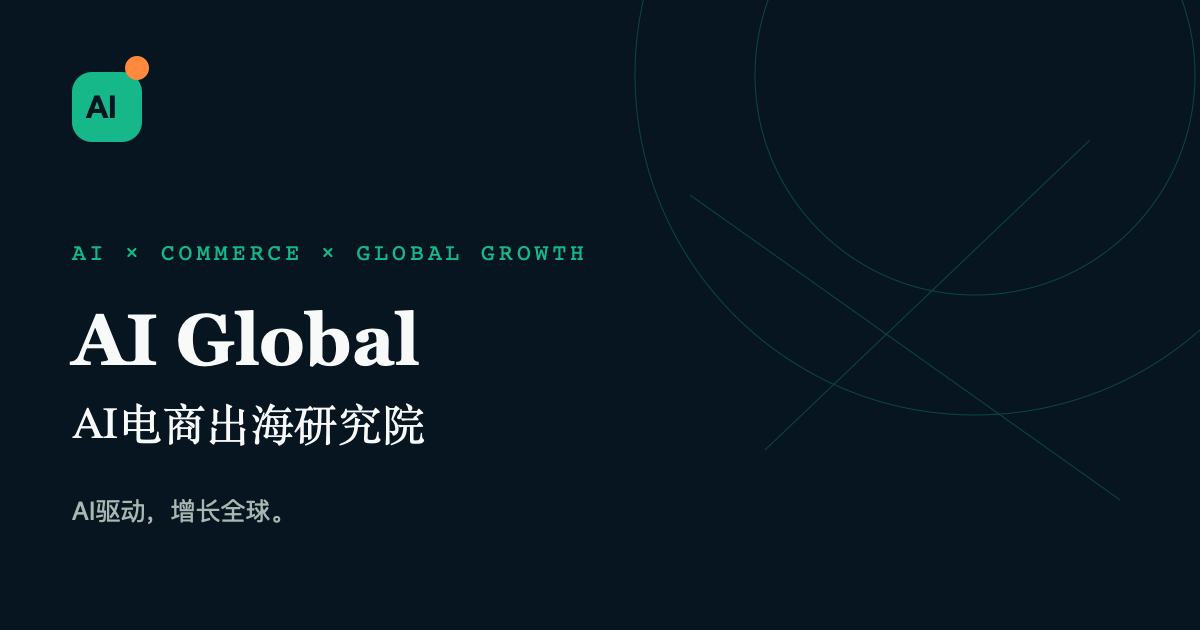
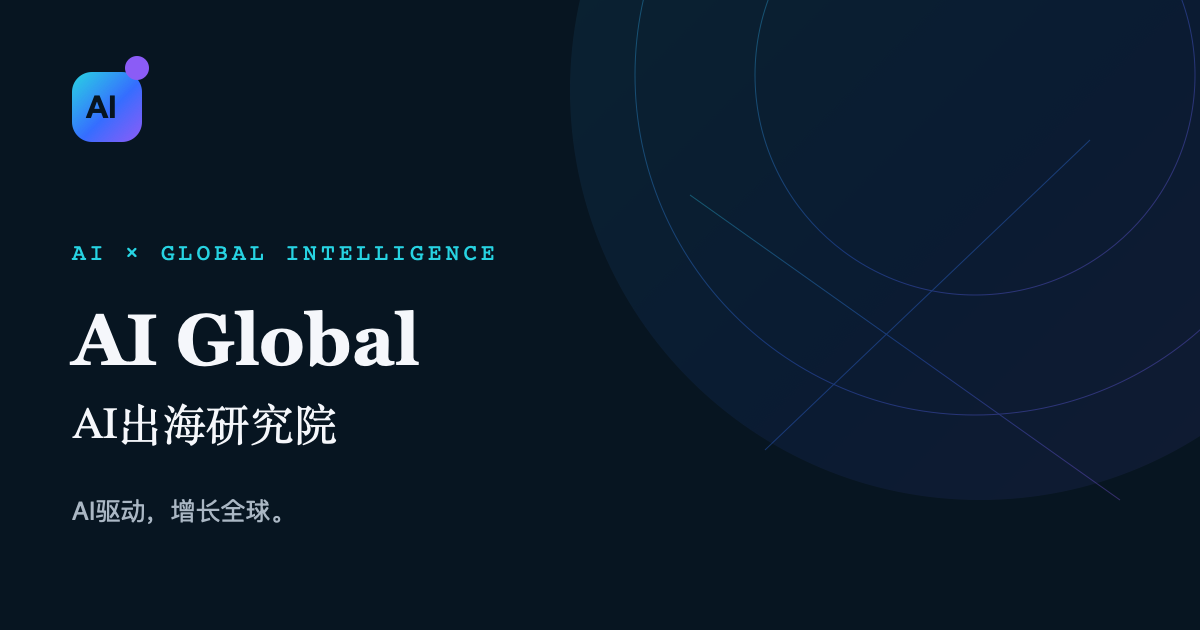
feat: refresh AI Global brand palette

diff --git a/app/page.tsx b/app/page.tsx
@@ -19,8 +19,8 @@ export default function HomePage() {
       <div className="absolute left-[-10%] top-[-30%] h-[650px] w-[650px] rounded-full bg-[var(--brand)]/[.07] blur-[100px]" />
       <div className="container-main grid min-h-[calc(100vh-104px)] items-center gap-10 py-16 lg:grid-cols-[1.05fr_.95fr] lg:py-20">
         <div className="relative z-10 min-w-0">
-          <div className="reveal inline-flex items-center gap-3 rounded-full border border-white/12 bg-white/[.04] px-4 py-2 font-mono text-[10px] font-bold uppercase tracking-[.2em] text-[var(--brand)]"><span className="size-1.5 rounded-full bg-[var(--orange)]" />AI × Commerce × Global Growth</div>
-          <h1 className="mt-8 max-w-3xl break-words font-display text-[clamp(2.75rem,11vw,6.9rem)] font-semibold leading-[.95] tracking-[-.065em]">用AI重构<br/><span className="text-[var(--brand)]">电商与全球化</span><br className="sm:hidden"/>增长</h1>
+          <div className="reveal inline-flex items-center gap-3 rounded-full border border-white/12 bg-white/[.04] px-4 py-2 font-mono text-[10px] font-bold uppercase tracking-[.2em] text-[var(--brand)]"><span className="size-1.5 rounded-full bg-[var(--violet)]" />AI × Commerce × Global Growth</div>
+          <h1 className="mt-8 max-w-3xl break-words font-display text-[clamp(2.75rem,11vw,6.9rem)] font-semibold leading-[.95] tracking-[-.065em]">用AI重构<br/><span className="text-brand-gradient">电商与全球化</span><br className="sm:hidden"/>增长</h1>
           <p className="mt-7 max-w-2xl text-base leading-8 text-white/62 md:text-lg">从行业资讯、工具和知识，到AI建站、广告投放、SEO与出海营销，为中国企业提供面向全球市场的一站式AI增长支持。</p>
           <div className="mt-9 flex flex-wrap gap-3"><ButtonLink href="/contact" size="lg">获取AI出海方案<ArrowRight className="size-4" /></ButtonLink><ButtonLink href="/knowledge" size="lg" variant="outline" className="border-white/18 text-white hover:bg-white/8">探索知识库</ButtonLink><ButtonLink href="/community" size="lg" variant="ghost" className="text-white/70 hover:bg-white/8">加入AI出海社群</ButtonLink></div>
           <div className="mt-12 flex flex-wrap gap-x-5 gap-y-3 border-t border-white/10 pt-5">{["AI智能建站","AI广告投放","SEO与GEO","海外社媒","AI产品出海","企业AI服务"].map((tag) => <span key={tag} className="flex items-center gap-2 text-xs text-white/44"><CircleDot className="size-3 text-[var(--brand)]" />{tag}</span>)}</div>
@@ -46,9 +46,9 @@ export default function HomePage() {
 
     <section className="section-pad soft-grid bg-[var(--paper)]"><div className="container-main"><SectionHeading eyebrow="Editors’ Choice / 03" title="本周最值得关注" description="深度指南、实战方法、平台变化与商业机会，由编辑团队建立内容之间的联系。" />
       <div className="grid auto-rows-[minmax(190px,auto)] gap-4 lg:grid-cols-12">
-        <Link href="/knowledge/geo-foundations" className="group relative overflow-hidden rounded-[28px] bg-[#11392d] p-7 text-white lg:col-span-7 lg:row-span-2 md:p-9"><span className="font-mono text-[10px] uppercase tracking-[.18em] text-[var(--brand)]">Deep Guide</span><h3 className="mt-8 max-w-xl font-display text-3xl font-semibold leading-tight md:text-5xl">AI搜索时代，品牌如何成为“可引用的答案”</h3><p className="mt-5 max-w-lg text-sm leading-7 text-white/56">从实体信息、专业作者、内容结构到第三方信号，建立GEO的长期基础。</p><ArrowUpRight className="absolute bottom-8 right-8 size-8 text-[var(--brand)] transition group-hover:rotate-45" /></Link>
+        <Link href="/knowledge/geo-foundations" className="group relative overflow-hidden rounded-[28px] bg-[#0b2547] p-7 text-white lg:col-span-7 lg:row-span-2 md:p-9"><span className="font-mono text-[10px] uppercase tracking-[.18em] text-[var(--brand)]">Deep Guide</span><h3 className="mt-8 max-w-xl font-display text-3xl font-semibold leading-tight md:text-5xl">AI搜索时代，品牌如何成为“可引用的答案”</h3><p className="mt-5 max-w-lg text-sm leading-7 text-white/56">从实体信息、专业作者、内容结构到第三方信号，建立GEO的长期基础。</p><ArrowUpRight className="absolute bottom-8 right-8 size-8 text-[var(--brand)] transition group-hover:rotate-45" /></Link>
         {news.slice(4,8).map((item) => <Link key={item.slug} href={`/news/${item.slug}`} className="group rounded-[24px] border border-[var(--line)] bg-white p-6 lg:col-span-5"><span className="text-[10px] font-bold text-[var(--brand-dark)]">{item.category}</span><h3 className="mt-3 text-xl font-semibold leading-7 tracking-[-.02em] group-hover:text-[var(--brand-dark)]">{item.title}</h3><p className="mt-4 text-xs text-[var(--muted)]">{formatDate(item.publishedAt)}</p></Link>)}
-        <Link href="/reports/geo-ai-search-guide" className="relative overflow-hidden rounded-[24px] bg-[var(--orange)] p-7 lg:col-span-12"><span className="font-mono text-[10px] uppercase tracking-[.16em]">Research / R04</span><div className="mt-5 flex flex-col justify-between gap-4 md:flex-row md:items-end"><div><h3 className="font-display text-3xl font-semibold tracking-[-.03em]">GEO与AI搜索增长实践指南</h3><p className="mt-2 text-sm text-[#4b260e]">42页 · 品牌实体、可引用内容与监测方法</p></div><span className="flex items-center gap-2 text-sm font-bold">获取完整报告<Download className="size-4" /></span></div></Link>
+        <Link href="/reports/geo-ai-search-guide" className="bg-brand-gradient relative overflow-hidden rounded-[24px] p-7 text-white lg:col-span-12"><div className="absolute -right-10 -top-20 size-56 rounded-full border border-white/15"/><span className="relative font-mono text-[10px] uppercase tracking-[.16em] text-white/75">Research / R04</span><div className="relative mt-5 flex flex-col justify-between gap-4 md:flex-row md:items-end"><div><h3 className="font-display text-3xl font-semibold tracking-[-.03em]">GEO与AI搜索增长实践指南</h3><p className="mt-2 text-sm text-white/72">42页 · 品牌实体、可引用内容与监测方法</p></div><span className="flex items-center gap-2 text-sm font-bold">获取完整报告<Download className="size-4" /></span></div></Link>
       </div>
     </div></section>
 
@@ -62,16 +62,16 @@ export default function HomePage() {
     </div></section>
 
     <section className="section-pad bg-[var(--paper)]"><div className="container-main"><SectionHeading eyebrow="Practice / 06" title="AI驱动全球增长的真实实践" description="明确区分匿名案例、示范方案与自有案例。没有公开授权，就不展示客户Logo；没有可靠数据，就不编造增长数字。" link="/cases" />
-      <div className="grid gap-4 lg:grid-cols-3">{cases.slice(0, 6).map((item, index) => <Link key={item.slug} href={`/cases/${item.slug}`} className={`group flex min-h-[330px] flex-col rounded-[26px] border p-6 ${index === 0 ? "border-transparent bg-[var(--orange)] text-[#32170a] lg:col-span-2" : "border-[var(--line)] bg-white"}`}><div className="flex items-center justify-between"><span className={`rounded-full px-3 py-1 text-[10px] font-bold ${index === 0 ? "bg-[#32170a] text-white" : "bg-[var(--brand-wash)] text-[var(--brand-dark)]"}`}>{item.kind === "示范方案" ? "Sample Playbook / 示范方案" : item.kind}</span><span className="font-mono text-[10px] opacity-45">C0{index+1}</span></div><h3 className={`mt-7 font-display font-semibold leading-tight tracking-[-.03em] ${index === 0 ? "max-w-2xl text-4xl md:text-5xl" : "text-2xl"}`}>{item.title}</h3><p className="mt-4 text-sm leading-6 opacity-65">{item.challenge}</p><div className="mt-auto flex items-end justify-between pt-6"><span className="text-xs font-semibold">{item.industry} · {item.service}</span><ArrowUpRight className="size-5 transition group-hover:rotate-45" /></div></Link>)}</div>
+      <div className="grid gap-4 lg:grid-cols-3">{cases.slice(0, 6).map((item, index) => <Link key={item.slug} href={`/cases/${item.slug}`} className={`group flex min-h-[330px] flex-col rounded-[26px] border p-6 ${index === 0 ? "border-transparent bg-[var(--global-blue)] text-white lg:col-span-2" : "border-[var(--line)] bg-white"}`}><div className="flex items-center justify-between"><span className={`rounded-full px-3 py-1 text-[10px] font-bold ${index === 0 ? "bg-white/15 text-white" : "bg-[var(--brand-wash)] text-[var(--brand-dark)]"}`}>{item.kind === "示范方案" ? "Sample Playbook / 示范方案" : item.kind}</span><span className="font-mono text-[10px] opacity-45">C0{index+1}</span></div><h3 className={`mt-7 font-display font-semibold leading-tight tracking-[-.03em] ${index === 0 ? "max-w-2xl text-4xl md:text-5xl" : "text-2xl"}`}>{item.title}</h3><p className="mt-4 text-sm leading-6 opacity-65">{item.challenge}</p><div className="mt-auto flex items-end justify-between pt-6"><span className="text-xs font-semibold">{item.industry} · {item.service}</span><ArrowUpRight className="size-5 transition group-hover:rotate-45" /></div></Link>)}</div>
     </div></section>
 
     <section className="section-pad bg-white"><div className="container-main"><SectionHeading eyebrow="Research / 07" title="AI电商与全球增长研究" description="以结构化方法、透明来源和可执行结论，沉淀行业变化与实践框架。" link="/reports" />
-      <div className="grid gap-5 md:grid-cols-2 lg:grid-cols-4">{reports.map((report, index) => <Link key={report.slug} href={`/reports/${report.slug}`} className="group"><div className={`relative aspect-[3/4] overflow-hidden rounded-[20px] p-6 ${["bg-[#153d31] text-white","bg-[#f0dfc7] text-[#2f2418]","bg-[#193348] text-white","bg-[#ef6f38] text-[#241209]"][index]}`}><div className="soft-grid absolute inset-0 opacity-25"/><span className="relative font-mono text-[9px] tracking-[.18em]">AI GLOBAL RESEARCH / {report.number}</span><h3 className="relative mt-16 font-display text-2xl font-semibold leading-tight tracking-[-.025em]">{report.title}</h3><div className="absolute bottom-6 left-6 right-6 flex items-end justify-between border-t border-current/20 pt-4"><span className="text-[10px]">{report.pages ? `${report.pages} PAGES` : "COMING SOON"}</span><span className="font-display text-2xl">AG.</span></div></div><div className="mt-4 flex items-center justify-between"><span className="text-sm font-semibold">{report.status}</span><Download className="size-4 text-[var(--muted)] transition group-hover:text-[var(--brand-dark)]" /></div></Link>)}</div>
+      <div className="grid gap-5 md:grid-cols-2 lg:grid-cols-4">{reports.map((report, index) => <Link key={report.slug} href={`/reports/${report.slug}`} className="group"><div className={`relative aspect-[3/4] overflow-hidden rounded-[20px] p-6 ${["bg-[#0b2547] text-white","bg-[#dfeaff] text-[#172b57]","bg-[#254edb] text-white","bg-[#7146c7] text-white"][index]}`}><div className="soft-grid absolute inset-0 opacity-25"/><span className="relative font-mono text-[9px] tracking-[.18em]">AI GLOBAL RESEARCH / {report.number}</span><h3 className="relative mt-16 font-display text-2xl font-semibold leading-tight tracking-[-.025em]">{report.title}</h3><div className="absolute bottom-6 left-6 right-6 flex items-end justify-between border-t border-current/20 pt-4"><span className="text-[10px]">{report.pages ? `${report.pages} PAGES` : "COMING SOON"}</span><span className="font-display text-2xl">AG.</span></div></div><div className="mt-4 flex items-center justify-between"><span className="text-sm font-semibold">{report.status}</span><Download className="size-4 text-[var(--muted)] transition group-hover:text-[var(--brand-dark)]" /></div></Link>)}</div>
     </div></section>
 
-    <section className="section-pad soft-grid bg-[#eaf0ec]"><div className="container-main grid gap-12 lg:grid-cols-[.9fr_1.1fr] lg:items-center">
+    <section className="section-pad soft-grid bg-[var(--paper-2)]"><div className="container-main grid gap-12 lg:grid-cols-[.9fr_1.1fr] lg:items-center">
       <div><p className="font-mono text-[11px] font-bold uppercase tracking-[.2em] text-[var(--brand-dark)]">Community / 08</p><h2 className="mt-5 text-balance font-display text-4xl font-semibold leading-[1.08] tracking-[-.04em] md:text-6xl">加入AI出海<br/>实践者社区</h2><p className="mt-6 max-w-lg text-base leading-8 text-[var(--muted)]">AI Global Club连接跨境卖家、出海品牌、AI创业者、独立开发者和企业管理者，围绕真实问题交流与合作。</p><div className="mt-8 grid grid-cols-2 gap-3 text-sm">{["每周行业精选","AI工具与教程","会员知识库","行业分享","线下活动","案例交流","企业需求","合作机会"].map((item)=><span key={item} className="flex items-center gap-2"><Check className="size-4 text-[var(--brand-dark)]"/>{item}</span>)}</div><div className="mt-9 flex flex-wrap gap-3"><ButtonLink href="/community/apply">申请加入<Users className="size-4"/></ButtonLink><ButtonLink href="/community/membership" variant="outline">查看会员权益</ButtonLink></div></div>
-      <div className="rounded-[30px] border border-[var(--line)] bg-white p-4 shadow-[0_30px_70px_rgba(16,32,27,.08)] md:p-7"><div className="flex items-center justify-between border-b border-[var(--line)] pb-5"><div><p className="text-sm font-bold">社区正在讨论</p><p className="mt-1 text-xs text-[var(--muted)]">真实问题 · 专业交流 · 基础审核</p></div><MessageCircle className="size-5 text-[var(--brand-dark)]"/></div><div className="divide-y divide-[var(--line)]">{communityTopics.slice(0,5).map((topic)=><Link href={`/community/topics#${topic.slug}`} key={topic.slug} className="group block py-5"><div className="flex items-start justify-between gap-3"><div><span className="text-[10px] font-bold text-[var(--brand-dark)]">{topic.category}</span><h3 className="mt-1.5 font-semibold leading-6 group-hover:text-[var(--brand-dark)]">{topic.title}</h3></div><span className="shrink-0 text-[10px] text-[var(--muted)]">{topic.replies}回复</span></div><p className="mt-2 text-xs text-[var(--muted)]">{topic.author} · {formatDate(topic.publishedAt)}</p></Link>)}</div></div>
+      <div className="rounded-[30px] border border-[var(--line)] bg-white p-4 shadow-[0_30px_70px_rgba(18,33,43,.08)] md:p-7"><div className="flex items-center justify-between border-b border-[var(--line)] pb-5"><div><p className="text-sm font-bold">社区正在讨论</p><p className="mt-1 text-xs text-[var(--muted)]">真实问题 · 专业交流 · 基础审核</p></div><MessageCircle className="size-5 text-[var(--brand-dark)]"/></div><div className="divide-y divide-[var(--line)]">{communityTopics.slice(0,5).map((topic)=><Link href={`/community/topics#${topic.slug}`} key={topic.slug} className="group block py-5"><div className="flex items-start justify-between gap-3"><div><span className="text-[10px] font-bold text-[var(--brand-dark)]">{topic.category}</span><h3 className="mt-1.5 font-semibold leading-6 group-hover:text-[var(--brand-dark)]">{topic.title}</h3></div><span className="shrink-0 text-[10px] text-[var(--muted)]">{topic.replies}回复</span></div><p className="mt-2 text-xs text-[var(--muted)]">{topic.author} · {formatDate(topic.publishedAt)}</p></Link>)}</div></div>
     </div></section>
 
     <section className="section-pad bg-[var(--paper)]"><div className="container-main"><SectionHeading eyebrow="Events & Learning / 09" title="活动、课程与行业连接" description="线上直播、城市Meetup、训练营与企业交流，让知识进入真实的业务现场。" link="/events" />
@@ -80,6 +80,6 @@ export default function HomePage() {
 
     <section className="bg-white py-20"><div className="container-main"><div className="rounded-[32px] border border-[var(--line)] bg-[var(--paper)] p-7 md:p-12"><div className="grid gap-8 lg:grid-cols-[.7fr_1.3fr] lg:items-end"><div><Lightbulb className="size-6 text-[var(--orange)]"/><h2 className="mt-5 font-display text-3xl font-semibold tracking-[-.035em] md:text-5xl">每周获取一份<br/>AI出海精选</h2><p className="mt-4 text-sm leading-7 text-[var(--muted)]">行业动态、新工具、案例、增长方法、活动与商业机会。无噪音，可随时退订。</p></div><NewsletterForm /></div></div></div></section>
 
-    <section className="relative overflow-hidden bg-[var(--orange)] py-20 text-[#271207] md:py-28"><div className="absolute -right-32 -top-40 size-[500px] rounded-full border border-[#271207]/10"/><div className="container-main relative"><p className="font-mono text-[10px] font-bold uppercase tracking-[.2em]">Your next move</p><div className="mt-6 flex flex-col justify-between gap-9 lg:flex-row lg:items-end"><h2 className="max-w-4xl text-balance font-display text-4xl font-semibold leading-[1.05] tracking-[-.045em] md:text-7xl">用AI开启你的全球增长下一步</h2><div className="flex shrink-0 flex-wrap gap-3"><ButtonLink href="/contact" variant="dark" size="lg">获取AI出海方案<ArrowRight className="size-4"/></ButtonLink><ButtonLink href="/community" variant="outline" size="lg" className="border-[#271207]/20 hover:bg-black/5">加入社群</ButtonLink></div></div></div></section>
+    <section className="bg-brand-gradient relative overflow-hidden py-20 text-white md:py-28"><div className="absolute -right-32 -top-40 size-[500px] rounded-full border border-white/15"/><div className="container-main relative"><p className="font-mono text-[10px] font-bold uppercase tracking-[.2em] text-white/75">Your next move</p><div className="mt-6 flex flex-col justify-between gap-9 lg:flex-row lg:items-end"><h2 className="max-w-4xl text-balance font-display text-4xl font-semibold leading-[1.05] tracking-[-.045em] md:text-7xl">用AI开启你的全球增长下一步</h2><div className="flex shrink-0 flex-wrap gap-3"><ButtonLink href="/contact" variant="dark" size="lg">获取AI出海方案<ArrowRight className="size-4"/></ButtonLink><ButtonLink href="/community" variant="outline" size="lg" className="border-white/25 text-white hover:bg-white/10">加入社群</ButtonLink></div></div></div></section>
   </>;
 }

diff --git a/app/about/page.tsx b/app/about/page.tsx
@@ -15,8 +15,8 @@ const pillars = [
 
 export default function AboutPage() {
   return <>
-    <ListingHero eyebrow="About AI Global" title="连接AI能力与全球商业机会" description="AI Global｜AI电商出海研究院，是面向中国企业、品牌、跨境商家、AI创业者和出海从业者的垂直行业平台。" />
+    <ListingHero eyebrow="About AI Global" title="连接AI能力与全球商业机会" description="AI Global｜AI出海研究院，是面向中国企业、品牌、跨境商家、AI创业者和出海从业者的垂直行业平台。" />
     <section className="section-pad bg-white"><div className="container-main grid gap-10 lg:grid-cols-[.8fr_1.2fr]"><div><p className="font-mono text-[10px] font-bold text-[var(--brand-dark)]">OUR MISSION</p><h2 className="mt-5 font-display text-4xl font-semibold leading-tight tracking-[-.04em]">{siteConfig.mission}</h2></div><div className="grid gap-4 md:grid-cols-3">{pillars.map((item) => { const Icon = item.icon; return <div key={item.title} className="rounded-[22px] border border-[var(--line)] bg-[var(--paper)] p-6"><Icon className="size-5 text-[var(--brand-dark)]" /><h3 className="mt-7 font-bold">{item.title}</h3><p className="mt-3 text-sm leading-6 text-[var(--muted)]">{item.text}</p></div>; })}</div></div></section>
-    <section className="section-pad bg-[var(--paper)]"><div className="container-reading prose-global"><h2>我们做什么</h2><p>AI Global同时建设资讯门户、知识库、工具导航、案例与报告、行业社区、活动课程和企业服务。内容帮助行业建立共同语言，社区连接真实实践者，企业服务把AI能力转化为可以运营的全球增长系统。</p><h2>独立品牌与交付原则</h2><p>AI Global是独立运营的品牌和业务入口。AI建站、广告投放、SEO/GEO、出海营销、企业培训和数字员工等业务均由AI Global对外统一提供、组织或交付。需要外部能力时，统一由AI Global专业交付团队与认证生态合作伙伴协同。</p><h2>编辑与研究原则</h2><ul><li>区分事实、观点、示范方案与商业合作。</li><li>保留信息来源、作者、更新时间和适用边界。</li><li>不全文搬运外部文章，不虚构评分、客户和业务数据。</li><li>对内容错误、版权与来源方诉求建立更正和删除渠道。</li></ul><h2>组织实体信息</h2><p>品牌：AI Global；中文定位：AI电商出海研究院；官方网站：{siteConfig.domain}；使命：{siteConfig.mission}</p><ButtonLink href="/contact">联系AI Global</ButtonLink></div></section>
+    <section className="section-pad bg-[var(--paper)]"><div className="container-reading prose-global"><h2>我们做什么</h2><p>AI Global同时建设资讯门户、知识库、工具导航、案例与报告、行业社区、活动课程和企业服务。内容帮助行业建立共同语言，社区连接真实实践者，企业服务把AI能力转化为可以运营的全球增长系统。</p><h2>独立品牌与交付原则</h2><p>AI Global是独立运营的品牌和业务入口。AI建站、广告投放、SEO/GEO、出海营销、企业培训和数字员工等业务均由AI Global对外统一提供、组织或交付。需要外部能力时，统一由AI Global专业交付团队与认证生态合作伙伴协同。</p><h2>编辑与研究原则</h2><ul><li>区分事实、观点、示范方案与商业合作。</li><li>保留信息来源、作者、更新时间和适用边界。</li><li>不全文搬运外部文章，不虚构评分、客户和业务数据。</li><li>对内容错误、版权与来源方诉求建立更正和删除渠道。</li></ul><h2>组织实体信息</h2><p>品牌：AI Global；中文定位：AI出海研究院；官方网站：{siteConfig.domain}；使命：{siteConfig.mission}</p><ButtonLink href="/contact">联系AI Global</ButtonLink></div></section>
   </>;
 }

diff --git a/components/home/network-visual.tsx b/components/home/network-visual.tsx
@@ -2,14 +2,14 @@ export function NetworkVisual() {
   return <div className="relative mx-auto aspect-square w-full max-w-[590px]" aria-label="AI全球商业网络抽象图">
     <div className="absolute inset-[7%] rounded-full border border-white/10" /><div className="absolute inset-[20%] rounded-full border border-dashed border-white/10" />
     <svg viewBox="0 0 600 600" className="absolute inset-0 h-full w-full" role="img" aria-hidden="true">
-      <defs><linearGradient id="line" x1="0" y1="0" x2="1" y2="1"><stop stopColor="#16b889" stopOpacity=".8"/><stop offset="1" stopColor="#3e8cff" stopOpacity=".12"/></linearGradient></defs>
+      <defs><linearGradient id="line" x1="0" y1="0" x2="1" y2="1"><stop stopColor="#27d3e2" stopOpacity=".9"/><stop offset=".55" stopColor="#356dff" stopOpacity=".55"/><stop offset="1" stopColor="#8b5cf6" stopOpacity=".18"/></linearGradient></defs>
       <g fill="none" stroke="url(#line)" strokeWidth="1">
         <path d="M300 300 118 180M300 300 480 142M300 300 510 330M300 300 430 490M300 300 170 490M300 300 82 335"/><path d="M118 180 480 142 510 330 430 490 170 490 82 335Z" strokeOpacity=".25"/><path d="M118 180 510 330M480 142 170 490M82 335 430 490" strokeDasharray="3 8" strokeOpacity=".3"/>
       </g>
-      <g fill="#16b889"><circle className="network-node" cx="118" cy="180" r="5"/><circle className="network-node" style={{animationDelay:"-.8s"}} cx="480" cy="142" r="5"/><circle className="network-node" style={{animationDelay:"-1.5s"}} cx="510" cy="330" r="5"/><circle className="network-node" style={{animationDelay:"-2.1s"}} cx="430" cy="490" r="5"/><circle className="network-node" style={{animationDelay:"-2.7s"}} cx="170" cy="490" r="5"/><circle className="network-node" style={{animationDelay:"-3.2s"}} cx="82" cy="335" r="5"/></g>
+      <g><circle className="network-node" fill="#27d3e2" cx="118" cy="180" r="5"/><circle className="network-node" fill="#356dff" style={{animationDelay:"-.8s"}} cx="480" cy="142" r="5"/><circle className="network-node" fill="#8b5cf6" style={{animationDelay:"-1.5s"}} cx="510" cy="330" r="5"/><circle className="network-node" fill="#27d3e2" style={{animationDelay:"-2.1s"}} cx="430" cy="490" r="5"/><circle className="network-node" fill="#356dff" style={{animationDelay:"-2.7s"}} cx="170" cy="490" r="5"/><circle className="network-node" fill="#8b5cf6" style={{animationDelay:"-3.2s"}} cx="82" cy="335" r="5"/></g>
     </svg>
     {[{label:"品牌",p:"left-[6%] top-[23%]"},{label:"内容",p:"right-[4%] top-[15%]"},{label:"广告",p:"right-[-1%] top-[52%]"},{label:"客户",p:"right-[15%] bottom-[6%]"},{label:"搜索",p:"left-[20%] bottom-[5%]"},{label:"社媒",p:"left-[-1%] top-[55%]"}].map((node) => <div key={node.label} className={`absolute ${node.p} rounded-full border border-white/12 bg-[#0d2233]/90 px-3 py-1.5 font-mono text-[10px] tracking-[.12em] text-white/55 backdrop-blur`}>{node.label}</div>)}
-    <div className="absolute left-1/2 top-1/2 flex size-40 -translate-x-1/2 -translate-y-1/2 flex-col items-center justify-center rounded-full border border-[var(--brand)]/35 bg-[#0b1e2b] shadow-[0_0_100px_rgba(22,184,137,.18)]">
+    <div className="absolute left-1/2 top-1/2 flex size-40 -translate-x-1/2 -translate-y-1/2 flex-col items-center justify-center rounded-full border border-[var(--brand)]/35 bg-[#0b1e2b] shadow-[0_0_100px_rgba(39,211,226,.18),0_0_140px_rgba(53,109,255,.12)]">
       <span className="font-display text-3xl font-semibold tracking-[-.04em] text-white">AI Global</span><span className="mt-2 font-mono text-[9px] tracking-[.2em] text-[var(--brand)]">GROWTH NODE</span>
     </div>
     <span className="absolute left-[48%] top-[2%] font-mono text-[9px] tracking-[.18em] text-white/30">GLOBAL / 01</span><span className="absolute bottom-[2%] right-[44%] font-mono text-[9px] tracking-[.18em] text-white/30">COMMERCE / AI</span>

diff --git a/app/contact/page.tsx b/app/contact/page.tsx
@@ -5,4 +5,4 @@ import { ListingHero } from "@/components/content/listing-hero";
 import { siteConfig } from "@/data/site-config";
 import { pageMetadata } from "@/lib/metadata";
 export const metadata:Metadata=pageMetadata("获取AI出海方案","提交企业需求，获取AI建站、广告投放、SEO/GEO和出海营销方案。","/contact");
-export default async function ContactPage({searchParams}:{searchParams:Promise<{service?:string}>}){const {service=""}=await searchParams;return <><ListingHero eyebrow="Business Inquiry" title="获取AI出海方案" description="告诉我们现状、目标市场和核心问题。AI Global会先完成需求判断，再建议适合的诊断、项目或长期合作方式。"/><section className="section-pad bg-[var(--paper)]"><div className="container-main grid gap-10 lg:grid-cols-[.65fr_1.35fr]"><aside><p className="font-display text-3xl font-semibold">一次有效沟通，从上下文开始。</p><p className="mt-4 text-sm leading-7 text-[var(--muted)]">无需准备完整Brief。说明当前业务、主要市场、最想解决的问题以及计划时间即可。</p><div className="mt-8 space-y-3">{[{icon:Clock3,label:"响应时间",value:"通常1个工作日内确认"},{icon:Mail,label:"联系邮箱",value:siteConfig.email},{icon:MessageCircleMore,label:"微信",value:siteConfig.wechat}].map(i=>{const Icon=i.icon;return <div key={i.label} className="flex gap-4 rounded-2xl border border-[var(--line)] bg-white p-5"><Icon className="size-5 text-[var(--brand-dark)]"/><div><p className="text-xs text-[var(--muted)]">{i.label}</p><p className="mt-1 text-sm font-semibold">{i.value}</p></div></div>})}</div><p className="mt-6 text-xs leading-6 text-[var(--muted)]">我们不会出售你的联系信息。请勿在首次表单中提交密码、支付信息或未公开的敏感数据。</p></aside><div className="rounded-[28px] border border-[var(--line)] bg-white p-6 shadow-[0_30px_70px_rgba(16,32,27,.06)] md:p-10"><LeadForm defaultService={service}/></div></div></section></>}
+export default async function ContactPage({searchParams}:{searchParams:Promise<{service?:string}>}){const {service=""}=await searchParams;return <><ListingHero eyebrow="Business Inquiry" title="获取AI出海方案" description="告诉我们现状、目标市场和核心问题。AI Global会先完成需求判断，再建议适合的诊断、项目或长期合作方式。"/><section className="section-pad bg-[var(--paper)]"><div className="container-main grid gap-10 lg:grid-cols-[.65fr_1.35fr]"><aside><p className="font-display text-3xl font-semibold">一次有效沟通，从上下文开始。</p><p className="mt-4 text-sm leading-7 text-[var(--muted)]">无需准备完整Brief。说明当前业务、主要市场、最想解决的问题以及计划时间即可。</p><div className="mt-8 space-y-3">{[{icon:Clock3,label:"响应时间",value:"通常1个工作日内确认"},{icon:Mail,label:"联系邮箱",value:siteConfig.email},{icon:MessageCircleMore,label:"微信",value:siteConfig.wechat}].map(i=>{const Icon=i.icon;return <div key={i.label} className="flex gap-4 rounded-2xl border border-[var(--line)] bg-white p-5"><Icon className="size-5 text-[var(--brand-dark)]"/><div><p className="text-xs text-[var(--muted)]">{i.label}</p><p className="mt-1 text-sm font-semibold">{i.value}</p></div></div>})}</div><p className="mt-6 text-xs leading-6 text-[var(--muted)]">我们不会出售你的联系信息。请勿在首次表单中提交密码、支付信息或未公开的敏感数据。</p></aside><div className="rounded-[28px] border border-[var(--line)] bg-white p-6 shadow-[0_30px_70px_rgba(18,33,43,.06)] md:p-10"><LeadForm defaultService={service}/></div></div></section></>}

diff --git a/app/globals.css b/app/globals.css
@@ -3,18 +3,23 @@
 :root {
   --ocean: #071521;
   --ocean-2: #0d2233;
-  --paper: #f5f7f4;
-  --paper-2: #e7ece9;
-  --ink: #10201b;
-  --muted: #65716d;
-  --line: #dce4df;
-  --line-strong: #cbd7d1;
-  --brand: #16b889;
-  --brand-bright: #42d5a8;
-  --brand-dark: #0b8f6a;
-  --brand-wash: #e5f7f0;
+  --paper: #f5f7fb;
+  --paper-2: #e9eef7;
+  --ink: #12212b;
+  --muted: #627080;
+  --line: #dce4ee;
+  --line-strong: #c9d4e2;
+  --brand: #27d3e2;
+  --brand-bright: #67e8f9;
+  --brand-dark: #087a8c;
+  --brand-wash: #e7f8fc;
+  --global-blue: #356dff;
+  --violet: #8b5cf6;
+  --success: #16b889;
   --orange: #ff8a3d;
-  --blue: #3e8cff;
+  --blue: #356dff;
+  --brand-gradient: linear-gradient(110deg, #27d3e2 0%, #356dff 55%, #8b5cf6 100%);
+  --brand-gradient-deep: linear-gradient(120deg, #0b6f91 0%, #2754d8 55%, #6d3dd4 100%);
   --radius: 1.25rem;
 }
 
@@ -38,7 +43,7 @@ main {
   min-height: calc(100vh - 6.5rem);
   min-height: calc(100svh - 6.5rem);
 }
-::selection { background: rgba(22,184,137,.25); color: var(--ink); }
+::selection { background: rgba(39,211,226,.3); color: var(--ink); }
 a { color: inherit; text-decoration: none; }
 button, input, textarea, select { font: inherit; }
 .font-display { font-family: "Iowan Old Style", "Songti SC", "Noto Serif SC", serif; }
@@ -47,9 +52,16 @@ button, input, textarea, select { font: inherit; }
 .container-main { width: min(calc(100% - 40px), 1280px); margin-inline: auto; }
 .container-reading { width: min(calc(100% - 40px), 800px); margin-inline: auto; }
 .text-balance { text-wrap: balance; }
+.text-brand-gradient {
+  background: var(--brand-gradient);
+  background-clip: text;
+  -webkit-background-clip: text;
+  color: transparent;
+}
+.bg-brand-gradient { background: var(--brand-gradient-deep); }
 .section-pad { padding-block: clamp(4.5rem, 8vw, 8rem); }
 .soft-grid {
-  background-image: linear-gradient(rgba(16,32,27,.045) 1px, transparent 1px), linear-gradient(90deg, rgba(16,32,27,.045) 1px, transparent 1px);
+  background-image: linear-gradient(rgba(18,33,43,.05) 1px, transparent 1px), linear-gradient(90deg, rgba(18,33,43,.05) 1px, transparent 1px);
   background-size: 48px 48px;
 }
 .noise::after {
@@ -64,13 +76,13 @@ button, input, textarea, select { font: inherit; }
 @keyframes rise { from { opacity: 0; transform: translateY(20px); } to { opacity: 1; transform: translateY(0); } }
 @keyframes pulse-node { 0%,100% { opacity: .45; transform: scale(1); } 50% { opacity: 1; transform: scale(1.16); } }
 .network-node { animation: pulse-node 3.6s ease-in-out infinite; transform-origin: center; transform-box: fill-box; }
-.prose-global { color: #263a33; font-size: 1.05rem; line-height: 1.9; }
+.prose-global { color: #2c3d4b; font-size: 1.05rem; line-height: 1.9; }
 .prose-global h2 { margin: 3rem 0 1rem; color: var(--ink); font-family: "Iowan Old Style", "Songti SC", serif; font-size: clamp(1.65rem,3vw,2.15rem); line-height: 1.25; letter-spacing: -.025em; }
 .prose-global h3 { margin: 2rem 0 .75rem; color: var(--ink); font-size: 1.15rem; }
 .prose-global p { margin: 1.15rem 0; }
 .prose-global ul { margin: 1.2rem 0; padding-left: 1.35rem; list-style: disc; }
 .prose-global li { margin: .55rem 0; padding-left: .25rem; }
-.prose-global blockquote { margin: 2rem 0; border-left: 3px solid var(--brand); background: var(--brand-wash); padding: 1.3rem 1.5rem; border-radius: 0 16px 16px 0; color: #214d3d; }
+.prose-global blockquote { margin: 2rem 0; border-left: 3px solid var(--brand-dark); background: var(--brand-wash); padding: 1.3rem 1.5rem; border-radius: 0 16px 16px 0; color: #174756; }
 .hide-scrollbar::-webkit-scrollbar { display: none; }
 .hide-scrollbar { scrollbar-width: none; }
 

diff --git a/app/reports/page.tsx b/app/reports/page.tsx
@@ -7,4 +7,4 @@ import { pageMetadata } from "@/lib/metadata";
 import { formatDate } from "@/lib/utils";
 
 export const metadata:Metadata=pageMetadata("行业报告","AI电商、智能建站、AI广告、AI工具、AI产品全球化与GEO研究报告。","/reports");
-export default function ReportsPage(){const covers=["bg-[#153d31] text-white","bg-[#f0dfc7] text-[#2f2418]","bg-[#193348] text-white","bg-[#ef6f38] text-[#241209]"];return <><ListingHero eyebrow="AI Global Research" title="研究与行业报告" description="围绕AI、电商与全球增长建立长期研究主题。报告区分已发布与占位预告，不虚构页数和研究数据。"/><section className="section-pad bg-[var(--paper)]"><div className="container-main grid gap-8 md:grid-cols-2 lg:grid-cols-4">{reports.map((r,index)=><Link key={r.slug} href={`/reports/${r.slug}`} className="group"><div className={`soft-grid relative aspect-[3/4] rounded-[22px] p-6 ${covers[index]}`}><span className="font-mono text-[9px] tracking-[.18em]">AI GLOBAL / {r.number}</span><h2 className="mt-16 font-display text-3xl font-semibold leading-tight tracking-[-.035em]">{r.title}</h2><div className="absolute bottom-6 left-6 right-6 border-t border-current/20 pt-4 text-[10px]">{r.pages?`${r.pages} PAGES`:"COMING SOON"}</div></div><p className="mt-4 text-sm font-semibold">{r.status} · {formatDate(r.publishedAt)}</p><p className="mt-2 text-xs leading-5 text-[var(--muted)]">{r.summary}</p><span className="mt-4 flex items-center gap-2 text-xs font-bold text-[var(--brand-dark)]">查看报告<Download className="size-3"/></span></Link>)}</div></section></>}
+export default function ReportsPage(){const covers=["bg-[#0b2547] text-white","bg-[#dfeaff] text-[#172b57]","bg-[#254edb] text-white","bg-[#7146c7] text-white"];return <><ListingHero eyebrow="AI Global Research" title="研究与行业报告" description="围绕AI、电商与全球增长建立长期研究主题。报告区分已发布与占位预告，不虚构页数和研究数据。"/><section className="section-pad bg-[var(--paper)]"><div className="container-main grid gap-8 md:grid-cols-2 lg:grid-cols-4">{reports.map((r,index)=><Link key={r.slug} href={`/reports/${r.slug}`} className="group"><div className={`soft-grid relative aspect-[3/4] rounded-[22px] p-6 ${covers[index]}`}><span className="font-mono text-[9px] tracking-[.18em]">AI GLOBAL / {r.number}</span><h2 className="mt-16 font-display text-3xl font-semibold leading-tight tracking-[-.035em]">{r.title}</h2><div className="absolute bottom-6 left-6 right-6 border-t border-current/20 pt-4 text-[10px]">{r.pages?`${r.pages} PAGES`:"COMING SOON"}</div></div><p className="mt-4 text-sm font-semibold">{r.status} · {formatDate(r.publishedAt)}</p><p className="mt-2 text-xs leading-5 text-[var(--muted)]">{r.summary}</p><span className="mt-4 flex items-center gap-2 text-xs font-bold text-[var(--brand-dark)]">查看报告<Download className="size-3"/></span></Link>)}</div></section></>}

diff --git a/components/content/knowledge-card.tsx b/components/content/knowledge-card.tsx
@@ -3,5 +3,5 @@ import { Bookmark, LockKeyhole, MoveUpRight } from "lucide-react";
 import type { KnowledgeItem } from "@/types";
 
 export function KnowledgeCard({ item }: { item: KnowledgeItem }) {
-  return <Link href={`/knowledge/${item.slug}`} className="group flex min-h-64 flex-col rounded-[22px] border border-[var(--line)] bg-white p-6 transition hover:-translate-y-0.5 hover:border-[#abd4c5] hover:shadow-[0_20px_45px_rgba(16,32,27,.06)]"><div className="flex items-center justify-between"><span className="text-[10px] font-bold text-[var(--brand-dark)]">{item.category} · {item.level}</span>{item.access !== "public" ? <span className="flex items-center gap-1 rounded-full bg-[#fff0e6] px-2.5 py-1 text-[9px] font-bold text-[#b84b08]"><LockKeyhole className="size-3"/>{item.access === "member" ? "会员" : "付费会员"}</span> : <Bookmark className="size-4 text-[#a2ada9]"/>}</div><h2 className="mt-6 text-xl font-semibold leading-7 tracking-[-.025em] group-hover:text-[var(--brand-dark)]">{item.title}</h2><p className="mt-3 text-sm leading-6 text-[var(--muted)]">{item.description}</p><div className="mt-auto flex items-end justify-between pt-6 text-[10px] text-[#899590]"><span>{item.readingTime}分钟 · 更新于 {item.updatedAt}</span><MoveUpRight className="size-4 transition group-hover:text-[var(--brand-dark)]"/></div></Link>;
+  return <Link href={`/knowledge/${item.slug}`} className="group flex min-h-64 flex-col rounded-[22px] border border-[var(--line)] bg-white p-6 transition hover:-translate-y-0.5 hover:border-[#9fdbe4] hover:shadow-[0_20px_45px_rgba(18,33,43,.06)]"><div className="flex items-center justify-between"><span className="text-[10px] font-bold text-[var(--brand-dark)]">{item.category} · {item.level}</span>{item.access !== "public" ? <span className="flex items-center gap-1 rounded-full bg-[#fff0e6] px-2.5 py-1 text-[9px] font-bold text-[#b84b08]"><LockKeyhole className="size-3"/>{item.access === "member" ? "会员" : "付费会员"}</span> : <Bookmark className="size-4 text-[#a2ada9]"/>}</div><h2 className="mt-6 text-xl font-semibold leading-7 tracking-[-.025em] group-hover:text-[var(--brand-dark)]">{item.title}</h2><p className="mt-3 text-sm leading-6 text-[var(--muted)]">{item.description}</p><div className="mt-auto flex items-end justify-between pt-6 text-[10px] text-[#899590]"><span>{item.readingTime}分钟 · 更新于 {item.updatedAt}</span><MoveUpRight className="size-4 transition group-hover:text-[var(--brand-dark)]"/></div></Link>;
 }

diff --git a/app/rss.xml/route.ts b/app/rss.xml/route.ts
@@ -1,4 +1,4 @@
 import { news } from "@/data/news";
 import { absoluteUrl } from "@/lib/utils";
 const escapeXml=(value:string)=>value.replace(/[<>&'\"]/g,char=>({"<":"&lt;",">":"&gt;","&":"&amp;","'":"&apos;",'"':"&quot;"}[char]??char));
-export async function GET(){const items=news.slice(0,20).map(i=>`<item><title>${escapeXml(i.title)}</title><link>${absoluteUrl(`/news/${i.slug}`)}</link><guid isPermaLink="true">${absoluteUrl(`/news/${i.slug}`)}</guid><description>${escapeXml(i.summary)}</description><category>${escapeXml(i.category)}</category><pubDate>${new Date(i.publishedAt).toUTCString()}</pubDate></item>`).join("");const xml=`<?xml version="1.0" encoding="UTF-8"?><rss version="2.0"><channel><title>AI Global｜AI电商出海研究院</title><link>${absoluteUrl()}</link><description>AI电商与全球增长资讯</description><language>zh-CN</language>${items}</channel></rss>`;return new Response(xml,{headers:{"Content-Type":"application/rss+xml; charset=utf-8","Cache-Control":"public, s-maxage=3600, stale-while-revalidate=86400"}})}
+export async function GET(){const items=news.slice(0,20).map(i=>`<item><title>${escapeXml(i.title)}</title><link>${absoluteUrl(`/news/${i.slug}`)}</link><guid isPermaLink="true">${absoluteUrl(`/news/${i.slug}`)}</guid><description>${escapeXml(i.summary)}</description><category>${escapeXml(i.category)}</category><pubDate>${new Date(i.publishedAt).toUTCString()}</pubDate></item>`).join("");const xml=`<?xml version="1.0" encoding="UTF-8"?><rss version="2.0"><channel><title>AI Global｜AI出海研究院</title><link>${absoluteUrl()}</link><description>AI与全球增长资讯</description><language>zh-CN</language>${items}</channel></rss>`;return new Response(xml,{headers:{"Content-Type":"application/rss+xml; charset=utf-8","Cache-Control":"public, s-maxage=3600, stale-while-revalidate=86400"}})}

diff --git a/components/home/service-grid.tsx b/components/home/service-grid.tsx
@@ -6,7 +6,7 @@ const icons = [PanelsTopLeft, Store, ChartNoAxesCombined, Globe2, SearchCheck, M
 
 export function ServiceGrid() {
   return <div className="grid gap-4 md:grid-cols-2 xl:grid-cols-4">
-    {services.map((service, index) => { const Icon = icons[index]; return <Link key={service.slug} href={`/services/${service.slug}`} className="group relative min-h-[310px] overflow-hidden rounded-[26px] border border-[var(--line)] bg-white p-6 transition duration-300 hover:-translate-y-1 hover:border-[#b6d9cc] hover:shadow-[0_25px_60px_rgba(16,32,27,.08)]">
+    {services.map((service, index) => { const Icon = icons[index]; return <Link key={service.slug} href={`/services/${service.slug}`} className="group relative min-h-[310px] overflow-hidden rounded-[26px] border border-[var(--line)] bg-white p-6 transition duration-300 hover:-translate-y-1 hover:border-[#9fdbe4] hover:shadow-[0_25px_60px_rgba(18,33,43,.08)]">
       <span className="absolute right-5 top-5 font-mono text-[10px] tracking-[.15em] text-[#a1aca8]">0{index + 1}</span>
       <span className={`flex size-12 items-center justify-center rounded-2xl ${service.accent === "orange" ? "bg-[#fff0e6] text-[#d96517]" : service.accent === "blue" ? "bg-[#eaf2ff] text-[#226ad1]" : "bg-[var(--brand-wash)] text-[var(--brand-dark)]"}`}><Icon className="size-5" /></span>
       <h3 className="mt-8 text-xl font-bold tracking-[-.025em] text-[var(--ink)]">{service.name}</h3><p className="mt-3 text-sm leading-6 text-[var(--muted)]">{service.description}</p>

diff --git a/components/layout/logo.tsx b/components/layout/logo.tsx
@@ -3,12 +3,12 @@ import { cn } from "@/lib/utils";
 
 export function Logo({ light = false, compact = false }: { light?: boolean; compact?: boolean }) {
   return <Link href="/" className="group flex items-center gap-3" aria-label="AI Global 首页">
-    <span className="relative flex size-9 items-center justify-center rounded-[11px] bg-[var(--brand)] text-sm font-black text-[#052118] shadow-[inset_0_0_0_1px_rgba(255,255,255,.28)]">
-      AI<span className="absolute -right-1 -top-1 size-2.5 rounded-full border-2 border-[var(--ocean)] bg-[var(--orange)]" />
+    <span className="relative flex size-9 items-center justify-center rounded-[11px] bg-[var(--brand)] text-sm font-black text-[#061b24] shadow-[inset_0_0_0_1px_rgba(255,255,255,.28)]">
+      AI<span className="absolute -right-1 -top-1 size-2.5 rounded-full border-2 border-[var(--ocean)] bg-[var(--violet)]" />
     </span>
     <span className="leading-none">
       <span className={cn("block font-display text-[21px] font-semibold tracking-[-.04em]", light ? "text-white" : "text-[var(--ink)]")}>AI Global</span>
-      {!compact && <span className={cn("mt-1 block text-[9px] font-bold tracking-[.18em]", light ? "text-white/55" : "text-[var(--muted)]")}>AI电商出海研究院</span>}
+      {!compact && <span className={cn("mt-1 block text-[9px] font-bold tracking-[.18em]", light ? "text-white/55" : "text-[var(--muted)]")}>AI出海研究院</span>}
     </span>
   </Link>;
 }

diff --git a/components/layout/header.tsx b/components/layout/header.tsx
@@ -8,7 +8,7 @@ import { ButtonLink } from "@/components/ui/button";
 
 export function Header() {
   return <>
-    {siteConfig.announcement.enabled && <Link href={siteConfig.announcement.href} className="relative z-50 block bg-[var(--brand)] px-5 py-2 text-center text-xs font-semibold text-[#052118] transition hover:bg-[var(--brand-bright)]"><span className="mr-2 rounded-full bg-[#052118] px-2 py-0.5 font-mono text-[9px] tracking-wider text-white">{siteConfig.announcement.label}</span>{siteConfig.announcement.text}<span aria-hidden className="ml-2">→</span></Link>}
+    {siteConfig.announcement.enabled && <Link href={siteConfig.announcement.href} className="relative z-50 block bg-[var(--brand)] px-5 py-2 text-center text-xs font-semibold text-[#061b24] transition hover:bg-[var(--brand-bright)]"><span className="mr-2 rounded-full bg-[#061b24] px-2 py-0.5 font-mono text-[9px] tracking-wider text-white">{siteConfig.announcement.label}</span>{siteConfig.announcement.text}<span aria-hidden className="ml-2">→</span></Link>}
     <header className="sticky top-0 z-50 border-b border-white/10 bg-[#071521ee] text-white backdrop-blur-xl">
       <div className="container-wide flex h-[72px] items-center justify-between gap-6">
         <Logo light />

diff --git a/components/layout/footer.tsx b/components/layout/footer.tsx
@@ -6,7 +6,7 @@ import { siteConfig } from "@/data/site-config";
 
 export function Footer() {
   return <footer className="relative overflow-hidden bg-[var(--ocean)] text-white">
-    <div className="absolute -right-24 top-10 size-80 rounded-full border border-[var(--brand)]/10" /><div className="absolute -right-8 top-24 size-52 rounded-full border border-[var(--orange)]/10" />
+    <div className="absolute -right-24 top-10 size-80 rounded-full border border-[var(--brand)]/10" /><div className="absolute -right-8 top-24 size-52 rounded-full border border-[var(--violet)]/15" />
     <div className="container-main relative py-16 md:py-20">
       <div className="grid gap-12 border-b border-white/10 pb-14 lg:grid-cols-[1.2fr_.8fr_.8fr_.8fr]">
         <div><Logo light /><p className="mt-6 max-w-sm text-sm leading-7 text-white/55">连接AI、电商与全球化增长的知识、工具、人才和商业服务。</p><p className="mt-5 font-display text-2xl text-[var(--brand)]">AI驱动，增长全球。</p></div>
